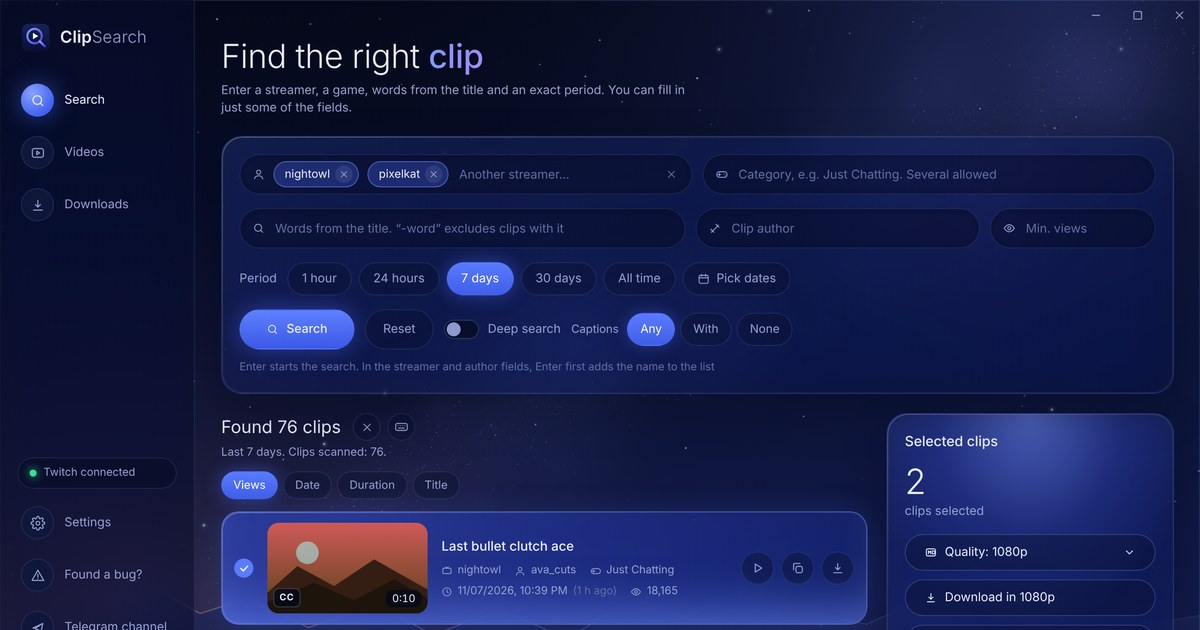
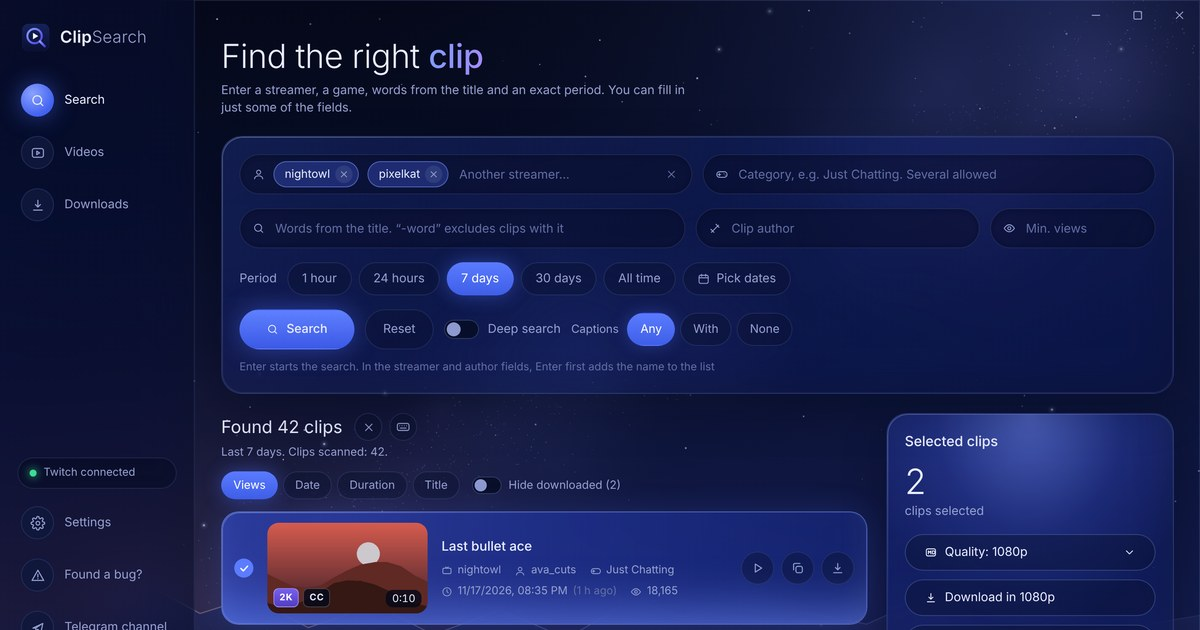
Site: version 1.3, fresh app screenshots

diff --git a/site/index.html b/site/index.html
@@ -13,7 +13,7 @@
 <meta property="og:title" content="ClipSearch — поиск и скачивание клипов Twitch">
 <meta property="og:description" content="Найдите клип Twitch за минуту и скачайте в 1080p. Бесплатно, без входа.">
 <meta property="og:url" content="https://clip-search.com/">
-<meta property="og:image" content="https://clip-search.com/og.jpg?v=6">
+<meta property="og:image" content="https://clip-search.com/og.jpg?v=7">
 <meta name="twitter:card" content="summary_large_image">
 <meta name="theme-color" content="#070b1f">
 <link rel="icon" href="logo.svg" type="image/svg+xml">
@@ -580,7 +580,7 @@ footer a { color: var(--muted); }
     </div>
     <div class="stage">
       <div class="win" id="win">
-        <img src="shot.webp?v=6" alt="Окно ClipSearch: найдено 76 клипов у двух стримеров за 7 дней, два клипа выбраны для скачивания в 1080p" width="1600" height="1019" loading="lazy">
+        <img src="shot.webp?v=7" alt="Окно ClipSearch: найдено 76 клипов у двух стримеров за 7 дней, два клипа выбраны для скачивания в 1080p" width="1600" height="1019" loading="lazy">
         <div class="shine"></div>
       </div>
     </div>
@@ -723,7 +723,9 @@ footer a { color: var(--muted); }
       <h2>История <b>версий</b></h2>
     </div>
     <div class="log glass">
-      <div class="ver"><b>1.2</b><span>8 ноября 2026</span><span class="now">Текущая</span></div>
+      <div class="ver"><b>1.3</b><span>17 ноября 2026</span><span class="now">Текущая</span></div>
+      <div><ul><li>Чат в записях трансляций больше не замирает — он идёт по ходу всего видео.</li><li>Программа открывается с первого раза.</li><li>Клипы и записи со стримов в 2K можно скачать в 2K. На таких клипах стоит значок «2K».</li><li>На телефоне сайт после поиска сам прокручивается к найденным клипам.</li></ul></div>
+      <div class="ver"><b>1.2</b><span>8 ноября 2026</span></div>
       <div><ul><li>Значок «Скачан» на клипах, которые уже лежат в папке загрузок: нажмите — откроется файл. Кнопка «Скрыть скачанные» убирает их из списка.</li><li>Значок CC на клипах с субтитрами.</li><li>Повторный поиск за 12 часов открывается почти мгновенно, а кнопка «Обновить» заново спрашивает Twitch.</li><li>Окно «Настройки»: до 4 загрузок одновременно, шаблон имени файла, звук по окончании загрузок, период и глубокий поиск по умолчанию, язык.</li><li>Записи трансляций: поиск по названию, сортировка, фильтры по длине и категории. На карточке видно, во что играл стример и когда, и сколько звука заглушил Twitch.</li><li>В окне скачивания записи отрезок с нужной игрой выделяется одним нажатием.</li><li>Поиск работает в сетях, где провайдер замедляет зарубежные сайты: раньше там он заканчивался ошибкой «The read operation timed out».</li></ul></div>
       <div class="ver"><b>1.1</b><span>29 октября 2026</span></div>
       <div><ul><li>Записи трансляций: скачивайте их целиком или вырезайте нужный кусок, в том числе у эфира, который ещё идёт.</li><li>Чат трансляции на записях: включите переключатель — и к скачанной записи добавится чат, каким он был в тот момент. Сообщения плавно появляются по ходу видео, а размер, положение и фон можно настроить.</li><li>Фильтр «Субтитры» в поиске: только клипы с субтитрами Twitch или только без них.</li><li>ClipSearch для macOS: Apple Silicon (M1 и новее) и Intel, macOS 11 и новее.</li><li>Установщик для Windows ставит именно ту версию, которую вы скачали.</li></ul></div>

diff --git a/site/en/index.html b/site/en/index.html
@@ -13,7 +13,7 @@
 <meta property="og:title" content="ClipSearch — search and download Twitch clips">
 <meta property="og:description" content="Find a Twitch clip in a minute and download it in 1080p. Free, no sign-in.">
 <meta property="og:url" content="https://clip-search.com/en/">
-<meta property="og:image" content="https://clip-search.com/og-en.jpg?v=6">
+<meta property="og:image" content="https://clip-search.com/og-en.jpg?v=7">
 <meta name="twitter:card" content="summary_large_image">
 <meta name="theme-color" content="#070b1f">
 <link rel="icon" href="../logo.svg" type="image/svg+xml">
@@ -580,7 +580,7 @@ footer a { color: var(--muted); }
     </div>
     <div class="stage">
       <div class="win" id="win">
-        <img src="../shot-en.webp?v=6" alt="ClipSearch window: 76 clips found for two streamers over 7 days, two clips selected for download in 1080p" width="1600" height="1019" loading="lazy">
+        <img src="../shot-en.webp?v=7" alt="ClipSearch window: 76 clips found for two streamers over 7 days, two clips selected for download in 1080p" width="1600" height="1019" loading="lazy">
         <div class="shine"></div>
       </div>
     </div>
@@ -723,7 +723,9 @@ footer a { color: var(--muted); }
       <h2>Version <b>history</b></h2>
     </div>
     <div class="log glass">
-      <div class="ver"><b>1.2</b><span>November 8, 2026</span><span class="now">Current</span></div>
+      <div class="ver"><b>1.3</b><span>November 17, 2026</span><span class="now">Current</span></div>
+      <div><ul><li>The chat in broadcast videos no longer freezes — it runs along the whole video.</li><li>The app opens on the first try.</li><li>Clips and videos from 2K streams can be downloaded in 2K. Such clips have a “2K” badge.</li><li>On phones, the site scrolls to the results by itself after a search.</li></ul></div>
+      <div class="ver"><b>1.2</b><span>November 8, 2026</span></div>
       <div><ul><li>A “Downloaded” badge on clips that are already in your download folder: click it to open the file. “Hide downloaded” removes them from the list.</li><li>A CC badge on clips with captions.</li><li>Repeating a search within 12 hours opens almost instantly, and the “Refresh” button asks Twitch again.</li><li>A Settings window: up to 4 downloads at once, a file name template, a sound when downloads finish, default period and deep search, language.</li><li>Broadcast videos: search by title, sorting, filters by length and category. Each card shows what the streamer played and when, and how much audio Twitch muted.</li><li>In the video download window, one click selects the part with the game you need.</li><li>Search works on networks where the provider slows down foreign sites: before, it ended there with “The read operation timed out”.</li></ul></div>
       <div class="ver"><b>1.1</b><span>October 29, 2026</span></div>
       <div><ul><li>Broadcast videos: download them whole or cut out the part you need, even from a stream that is still live.</li><li>Stream chat on broadcast videos: turn on the switch and the chat is added to the downloaded video as it was at that moment. Messages smoothly appear as it plays; size, position and background are adjustable.</li><li>“Captions” filter in search: only clips with Twitch captions or only without them.</li><li>ClipSearch for macOS: Apple Silicon (M1 and newer) and Intel, macOS 11 or later.</li><li>The Windows installer now installs exactly the version you downloaded.</li></ul></div>
